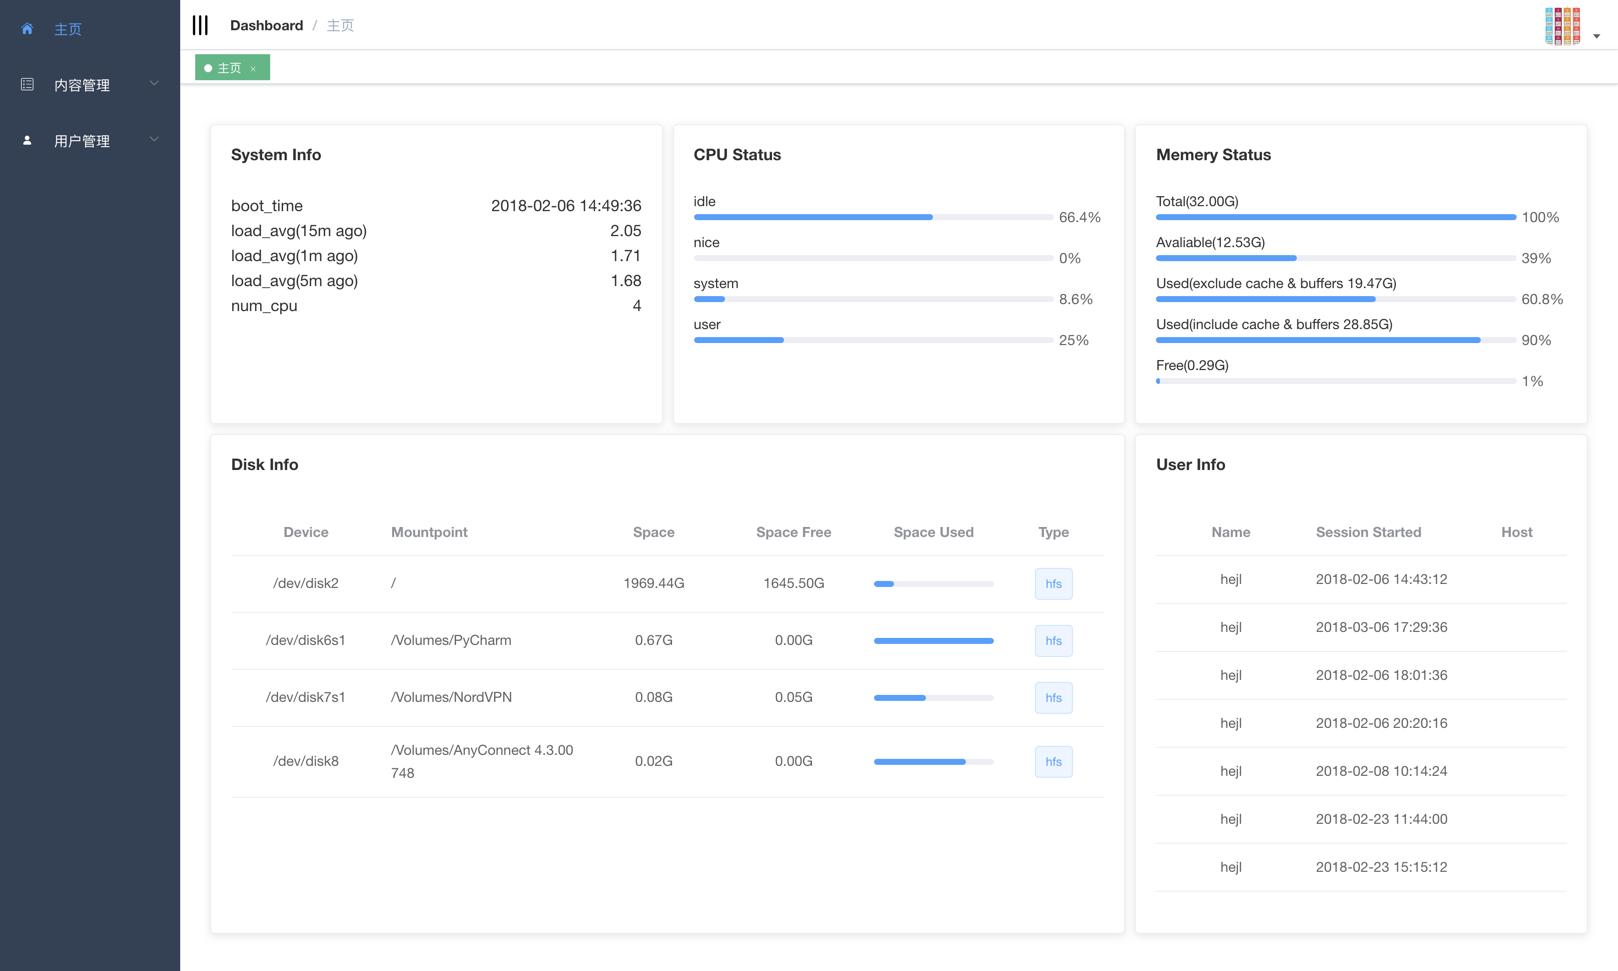
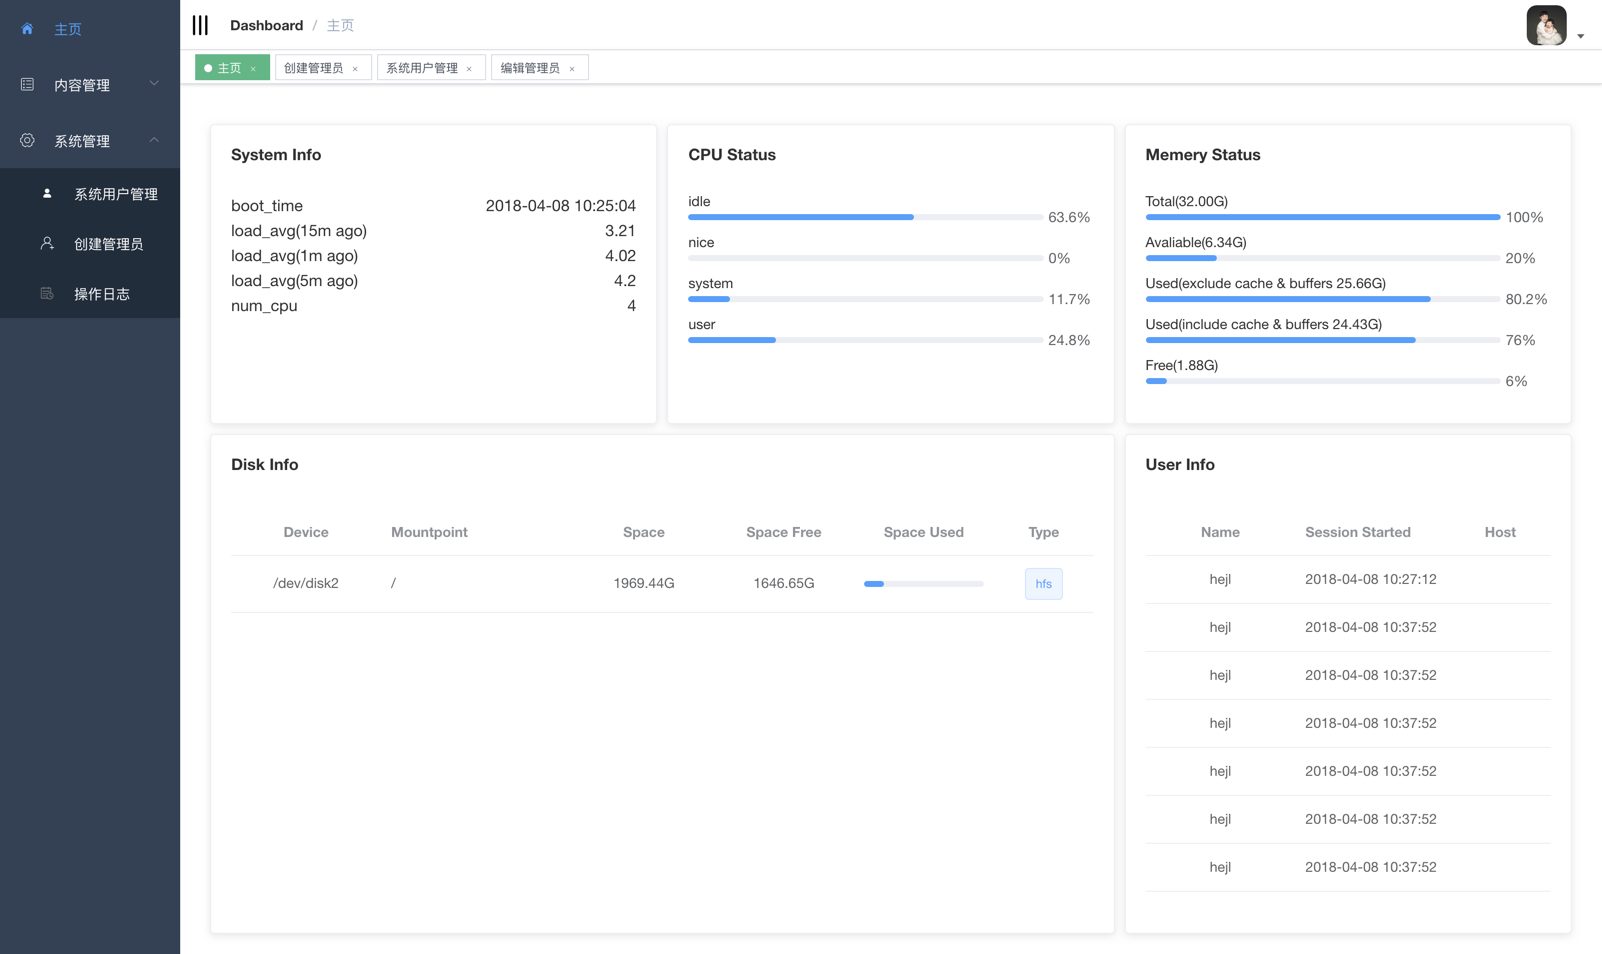
优化业务逻辑

diff --git a/admin_with_vue/src/router/index.js b/admin_with_vue/src/router/index.js
@@ -78,7 +78,7 @@ export const constantRouterMap = [
   {
     path: '/system',
     component: Layout,
-    redirect: '/user/all',
+    redirect: '/system/user',
     name: 'system',
     meta: { title: '系统管理', icon: 'system' },
     children: [
@@ -89,7 +89,7 @@ export const constantRouterMap = [
         meta: { title: '系统用户管理', icon: 'user' }
       },
       {
-        path: 'create',
+        path: 'user_create',
         component: () => import('@/views/user/create'),
         name: 'user-create',
         meta: { title: '创建管理员', icon: 'user_add' }
@@ -101,7 +101,7 @@ export const constantRouterMap = [
         meta: { title: '操作日志', icon: 'log' }
       },
       {
-        path: 'edit',
+        path: 'user_edit',
         component: () => import('@/views/user/edit'),
         name: 'user-edit',
         hidden: true,

diff --git a/admin_with_vue/src/views/user/index.vue b/admin_with_vue/src/views/user/index.vue
@@ -89,7 +89,7 @@ export default {
     },
     handleUpdate(row) {
       this.$router.push({
-        path: '/user/edit',
+        path: '/system/user_edit',
         query: { 'id': row.id }
       })
     },

diff --git a/admin/sysinfo.py b/admin/sysinfo.py
@@ -61,37 +61,31 @@ def operation_logs():
             code:
                 type: int
             data:
-                type: array
-                $ref: '#/definitions/Module'
+                type: object
             message:
                 type: string
         examples:
           code: 0
-          data: [{}, {}]
+          data: {'items': [{},{},{}], 'total': 200}
           message: 'success'
     """
     current_page = request.args.get('page') or 1
     per_page = request.args.get('limit') or 10
     path = request.args.get('path')
     input = request.args.get('input')
+    query_result = OperationLog.query.filter(OperationLog.path.like('%' + path + '%')).filter(
+        OperationLog.input.like('%' + input + '%')).order_by(
+        OperationLog.id.desc())
     date = request.args.get('date')
-    zero = date + ' 00:00:00'
-    twenti_four = date + ' 23:59:59'
-    pagination = OperationLog.query.filter(OperationLog.path.like('%' + path + '%')).filter(
-        OperationLog.input.like('%' + input + '%')).filter(
-        OperationLog._created_at.between(zero, twenti_four)).order_by(
-        OperationLog.id.desc()).paginate(int(current_page), per_page=int(per_page))
-    users = pagination.items
-    total = pagination.total
-    result = []
-    for item in users:
-        item = item.to_json()
-        result.append(item)
-
+    if date:
+        zero, twenti_four = date + ' 00:00:00', date + ' 23:59:59'
+        query_result = query_result.filter(OperationLog._created_at.between(zero, twenti_four))
+    pagination = query_result.paginate(int(current_page), per_page=int(per_page))
+    result = [item.to_json() for item in pagination.items]
     res = {
         'data': {
             'items': result,
-            'total': total
+            'total': pagination.total
         }
     }
     return success(res)
@@ -107,20 +101,16 @@ def delete_operation_log():
     - api_key: []
     responses:
       200:
-        description: 获取成功
+        description: 删除成功
         schema:
           type: object
           properties:
             code:
                 type: int
-            data:
-                type: array
-                $ref: '#/definitions/Module'
             message:
                 type: string
         examples:
           code: 0
-          data: [{}, {}]
           message: 'success'
     """
     data = json.loads(request.data)

diff --git a/models.py b/models.py
@@ -47,7 +47,7 @@ class BaseModel(db.Model):
         """
         :param num: int or str('all')
         :param child_num: int
-        :return: dict
+        :return: array
         """
         items = cls.get_item(num)
         return [item.to_json(child_num) for item in items]
@@ -74,21 +74,21 @@ class BaseModel(db.Model):
 
     @classmethod
     def create(cls, **kwargs):
-        """Create a new record and save it the database."""
+        """Create a new record and save it """
         instance = cls(**kwargs)
         return instance.save()
 
     def update(self, commit=True, **kwargs):
-        """部分属性例如hybrid_property不能setattr。"""
+        """Update an exist record and save it """
         for attr, value in kwargs.items():
-            try:
+            try:  # 部分属性无法setattr，例如hybird
                 setattr(self, attr, value)
             except:
                 pass
         return commit and self.save() or self
 
     def save(self, commit=True):
-        """Save the record."""
+        """Save the record to database."""
         db.session.add(self)
         if commit:
             db.session.commit()

diff --git a/admin/article.py b/admin/article.py
@@ -38,17 +38,11 @@ def articles():
         pagination = Article.query.filter_by(module_id=module).paginate(int(current_page), per_page=int(per_page))
     else:
         pagination = Article.query.paginate(int(current_page), per_page=int(per_page))
-    articles = pagination.items
-    total = pagination.total
-    result = []
-    for item in articles:
-        item = item.to_json()
-        result.append(item)
-
+    result = [item.to_json() for item in pagination.items]
     res = {
         'data': {
             'items': result,
-            'total': total
+            'total': pagination.total
         }
     }
     return success(res)

diff --git a/admin/user.py b/admin/user.py
@@ -8,7 +8,6 @@ from models import Admin
 from utils import success, fail
 from redis_db import cache
 from config import EXPIRE_TIME, UPLOAD_FOLDER
-from ext import db
 
 
 def generate_token(user_id):
@@ -281,6 +280,8 @@ def edit_user():
     user = Admin.query.get_or_404(data['id'])
     if data['password']:
         data['password'] = user.generate_password(data['password'])
+    else:
+        del data['password']
     user.update(**data)
     return success()
 

diff --git a/README.md b/README.md
@@ -3,7 +3,8 @@
 > 后台管理系统
 
 ![pyversions](https://img.shields.io/badge/python%20-3.6%2B-blue.svg)
-![vueversions](https://img.shields.io/badge/Vue.js-2.9.3-4fc08d.svg)
+![vueversions](https://img.shields.io/badge/Vue-2.9.3-4fc08d.svg)
+![flaskversions](https://img.shields.io/badge/flask-0.12.2-4fc08d.svg)
 
 
 # Preview
@@ -11,3 +12,4 @@
 ![效果图](https://github.com/hjlarry/flask-vue-cms/blob/master/Screenshots/2.png)
 ![效果图](https://github.com/hjlarry/flask-vue-cms/blob/master/Screenshots/3.png)
 ![效果图](https://github.com/hjlarry/flask-vue-cms/blob/master/Screenshots/4.png)
+![效果图](https://github.com/hjlarry/flask-vue-cms/blob/master/Screenshots/5.png)
